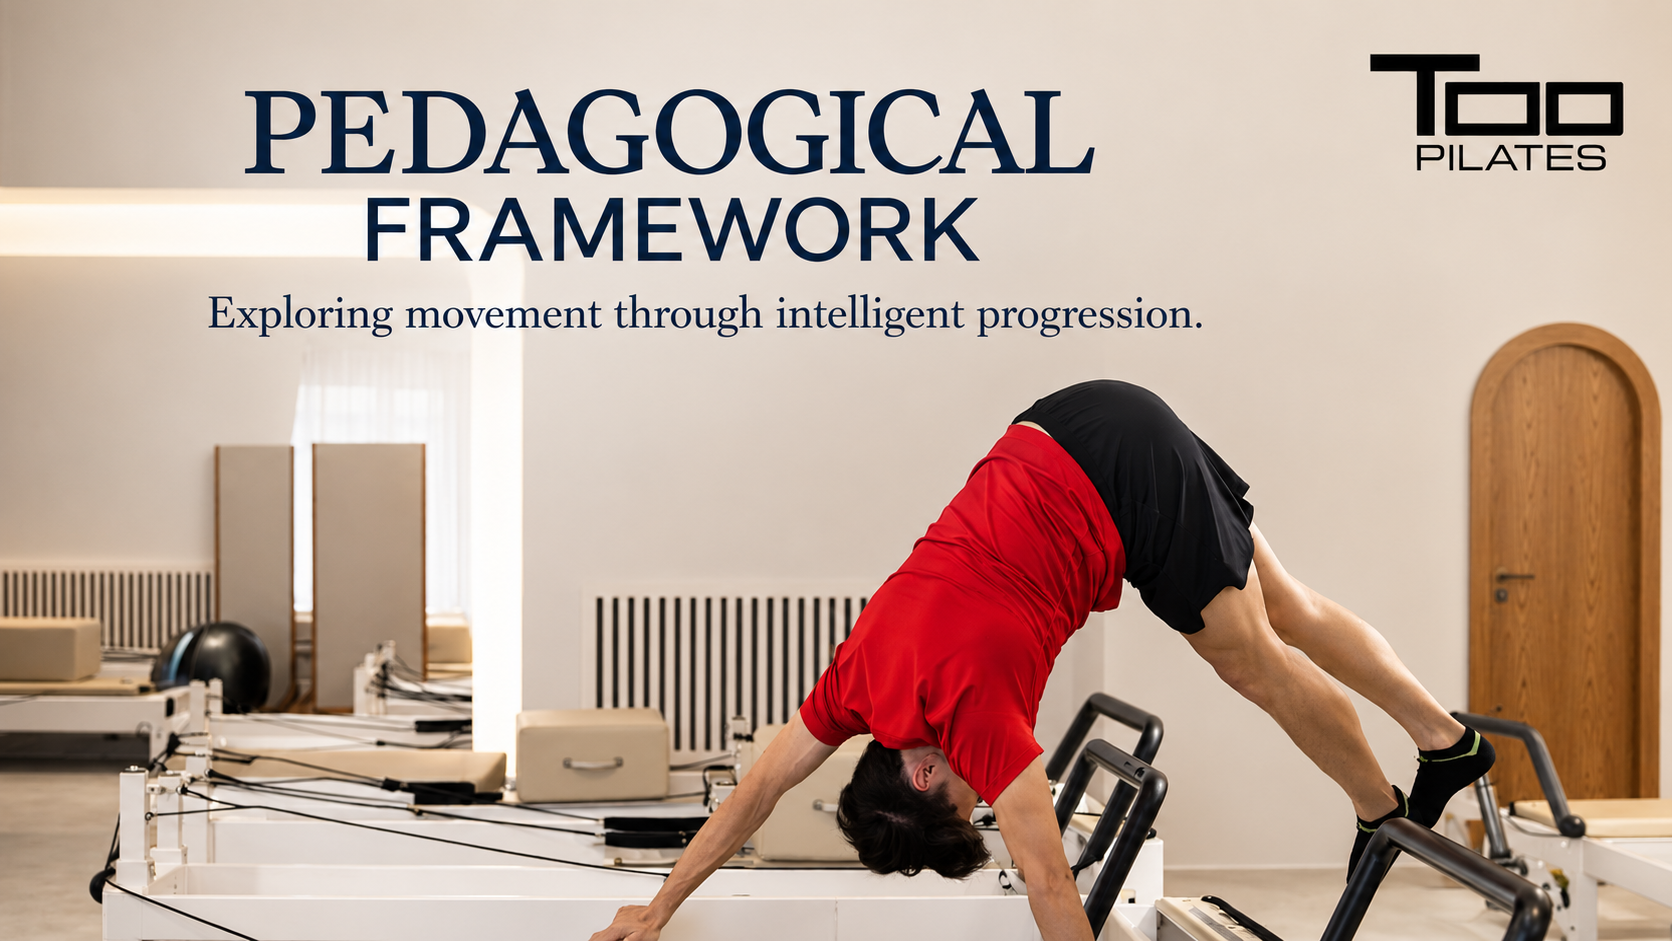
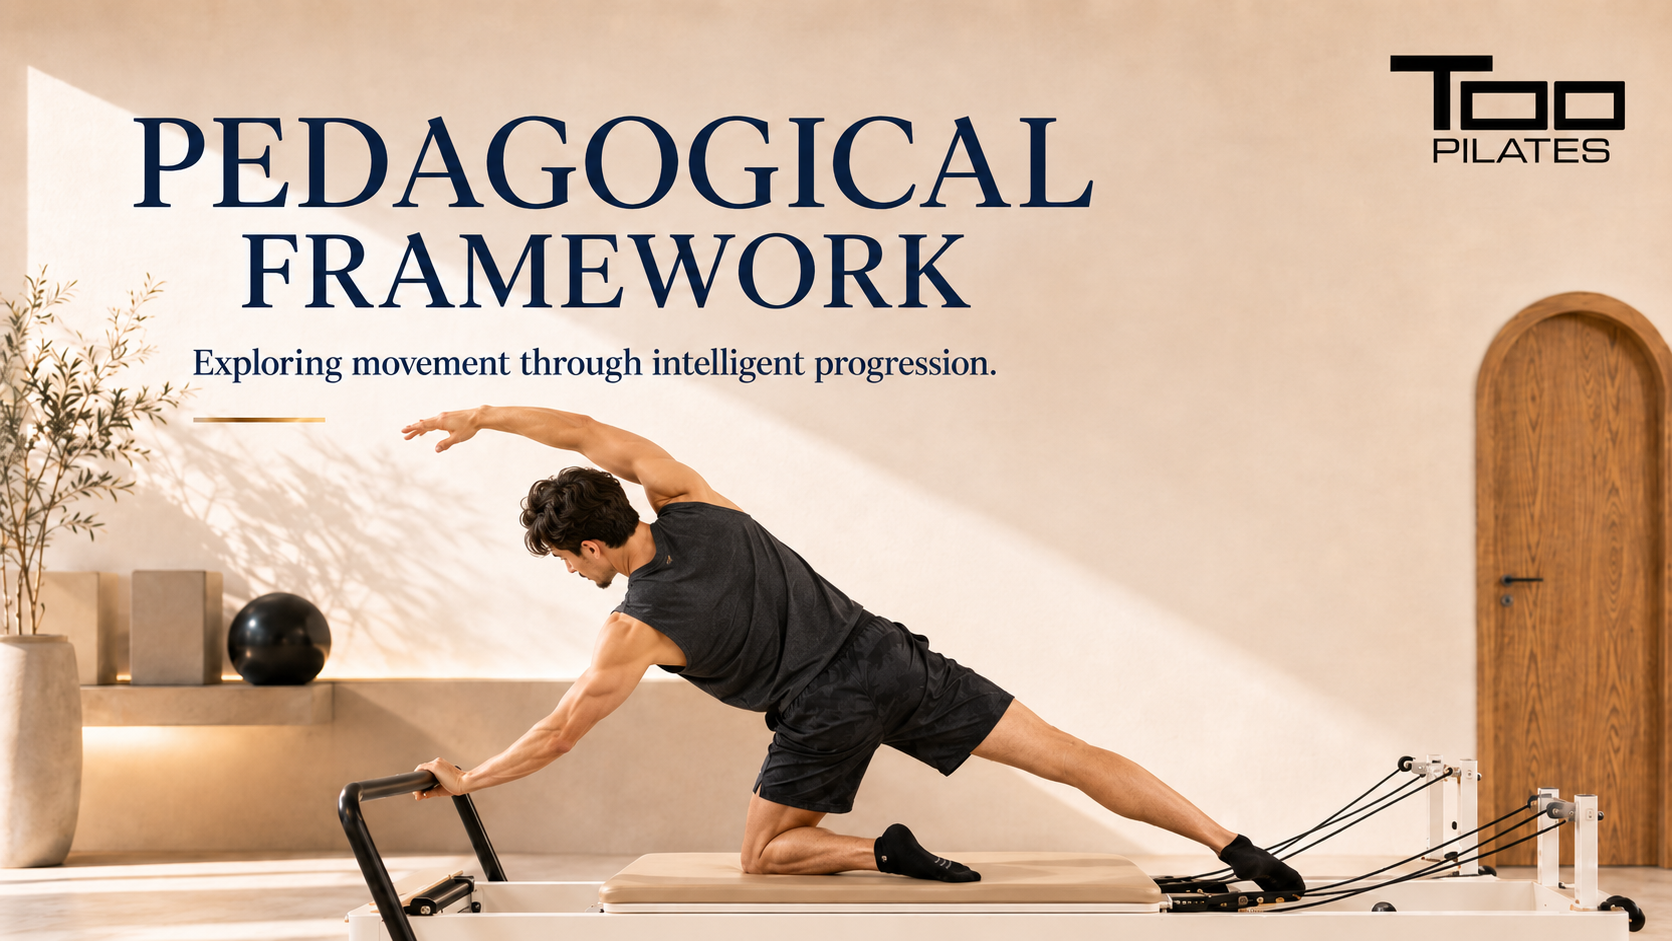
a

diff --git a/src/app/accueil/page.tsx b/src/app/accueil/page.tsx
@@ -24,7 +24,7 @@ type EmailJSError = {
 };
 
 const SERVICE_ID = process.env.NEXT_PUBLIC_EMAILJS_SERVICE_ID;
-const TEMPLATE_ID = process.env.NEXT_PUBLIC_EMAILJS_TEMPLATE_ID;
+const TEMPLATE_ID = process.env.NEXT_PUBLIC_EMAILJS_TEMPLATE_ID_AVIS;
 const PUBLIC_KEY = process.env.NEXT_PUBLIC_EMAILJS_PUBLIC_KEY;
 
 export default function AvisPage() {

diff --git a/src/app/components/Footer.tsx b/src/app/components/Footer.tsx
@@ -22,7 +22,7 @@ const SOCIAL = [
 ];
 
 const SERVICE_ID = process.env.NEXT_PUBLIC_EMAILJS_SERVICE_ID;
-const TEMPLATE_ID = process.env.NEXT_PUBLIC_EMAILJS_TEMPLATE_ID;
+const TEMPLATE_ID = process.env.NEXT_PUBLIC_EMAILJS_TEMPLATE_ID_AVIS;
 const PUBLIC_KEY = process.env.NEXT_PUBLIC_EMAILJS_PUBLIC_KEY;
 
 type EmailJSError = {